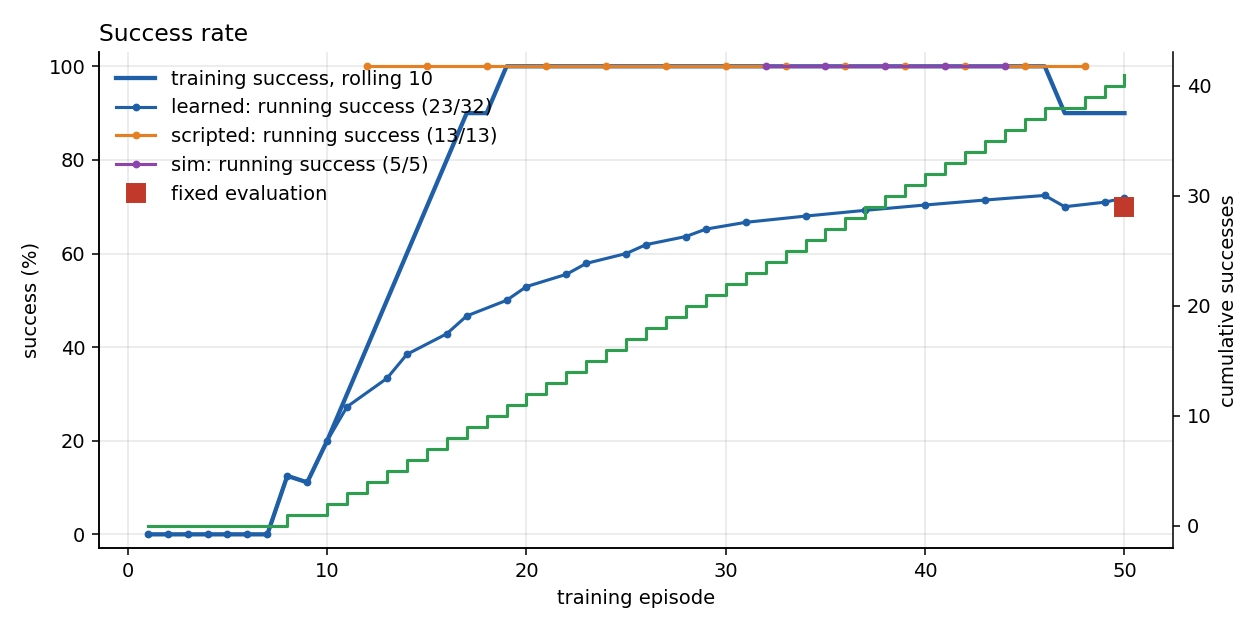
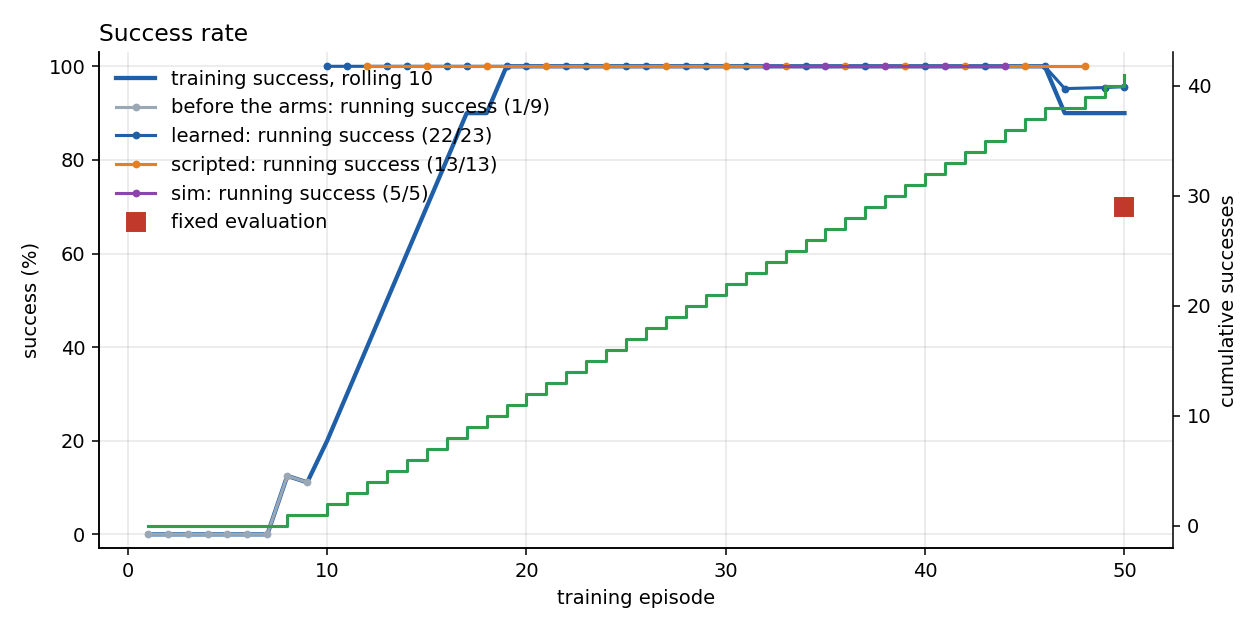
rl_plots: episodes before the arms existed shown as their own group, not as learned; report figures refreshed

diff --git a/scripts/rl_plots.py b/scripts/rl_plots.py
@@ -50,9 +50,9 @@ def style(ax, title, xlabel, ylabel):
 def arm_of(d, ep):
     """'scripted' or 'learned' from the episode's summary (the program writes arm=...); 'learned' when missing."""
     try:
-        return json.loads((d / "episodes" / f"ep_{int(ep):06d}" / "summary.json").read_text()).get("arm") or "learned"
+        return json.loads((d / "episodes" / f"ep_{int(ep):06d}" / "summary.json").read_text()).get("arm") or "pre"
     except (OSError, ValueError, TypeError):
-        return "learned"
+        return "pre"
 
 
 def summ(d, ep):
@@ -71,7 +71,7 @@ def fixed_return(r, s):
             - 0.1 * max(0.0, (ins.get("peak") or 0) - 15.0) - 0.05 * (ins.get("steps") or 0))
 
 
-ARM_COL = {"learned": "#1f5fa8", "scripted": "#e67e22", "sim": "#8e44ad"}
+ARM_COL = {"pre": "#9aa7b5", "learned": "#1f5fa8", "scripted": "#e67e22", "sim": "#8e44ad"}
 FREEZE_EP = 15                                   # scripted part constant (r4 start offset, commit 317d578) from here
 REWARD_EP = 17                                   # repaired learner + the fixed-formula reward from here
 REDESIGN_EP = 5                                  # measured opening + touch search (18:37)
@@ -80,7 +80,7 @@ REDESIGN_EP = 5                                  # measured opening + touch sear
 def draw_fixed(d, tr, out):
     """Fixed-formula return and rim contacts per episode by arm, with the redesign and the freeze marked."""
     S = [summ(d, r.get("episode")) for r in tr]
-    arms = [s.get("arm") or "learned" for s in S]          # "learned_eval" (ep 10: eval mode by a labelling bug) apart
+    arms = [s.get("arm") or "pre" for s in S]          # "learned_eval" (ep 10: eval mode by a labelling bug) apart
     eps = [int(r.get("episode")) for r in tr]
     R = [fixed_return(r, s) for r, s in zip(tr, S)]
     C = [(s.get("insert") or {}).get("contacts") for s in S]
@@ -93,7 +93,7 @@ def draw_fixed(d, tr, out):
             y = np.array([Y[i] for i in idx], float)
             x = np.array([eps[i] for i in idx])
             ax.plot(x, y, "o", color=col, ms=5, alpha=0.6)
-            ax.plot(x, roll(y, 5), "-", color=col, lw=2, label=f"{arm} (rolling 5)")
+            ax.plot(x, roll(y, 5), "-", color=col, lw=2, label=f"{'before the arms' if arm == 'pre' else arm} (rolling 5)")
         odd = [i for i, a in enumerate(arms) if a not in ARM_COL and Y[i] is not None]
         if odd:
             ax.plot([eps[i] for i in odd], [Y[i] for i in odd], "x", color="#888", ms=7, label="eval-mode run (not averaged)")
@@ -144,13 +144,13 @@ def draw(run):
         ax2.spines["top"].set_visible(False)
     arms = [arm_of(d, r.get("episode")) for r in tr]
     if "scripted" in arms:
-        for arm, col in (("learned", "#1f5fa8"), ("scripted", "#e67e22"), ("sim", "#8e44ad")):
+        for arm, col in (("pre", "#9aa7b5"), ("learned", "#1f5fa8"), ("scripted", "#e67e22"), ("sim", "#8e44ad")):
             idx = [i for i, a in enumerate(arms) if a.startswith(arm)]
             if not idx:
                 continue
             ok = np.array([tr[i].get("final") == "success" for i in idx], float)
             ax.plot(np.array(idx) + 1, np.cumsum(ok) / np.arange(1, len(ok) + 1) * 100, "o-", color=col, ms=3, lw=1.6,
-                    label=f"{arm}: running success ({int(ok.sum())}/{len(ok)})")
+                    label=f"{'before the arms' if arm == 'pre' else arm}: running success ({int(ok.sum())}/{len(ok)})")
     if evals:
         ax.plot([r["after"] for r in evals], [100 * float(r.get("rate") or 0) for r in evals], "s", color="#c0392b",
                 ms=9, label="fixed evaluation")
@@ -186,7 +186,7 @@ def draw(run):
         resets_ok=sum(bool(e.get("ok")) for e in resets), fixed_return=[round(v, 2) for v in fixed],
         arms={a: dict(n=sum(1 for r in tr if arm_of(d, r.get("episode")) == a),
                       successes=sum(1 for r in tr if arm_of(d, r.get("episode")) == a and r.get("final") == "success"))
-              for a in ("learned", "scripted", "sim")}), indent=1))
+              for a in ("pre", "learned", "scripted", "sim")}), indent=1))
 
 
 def main():
